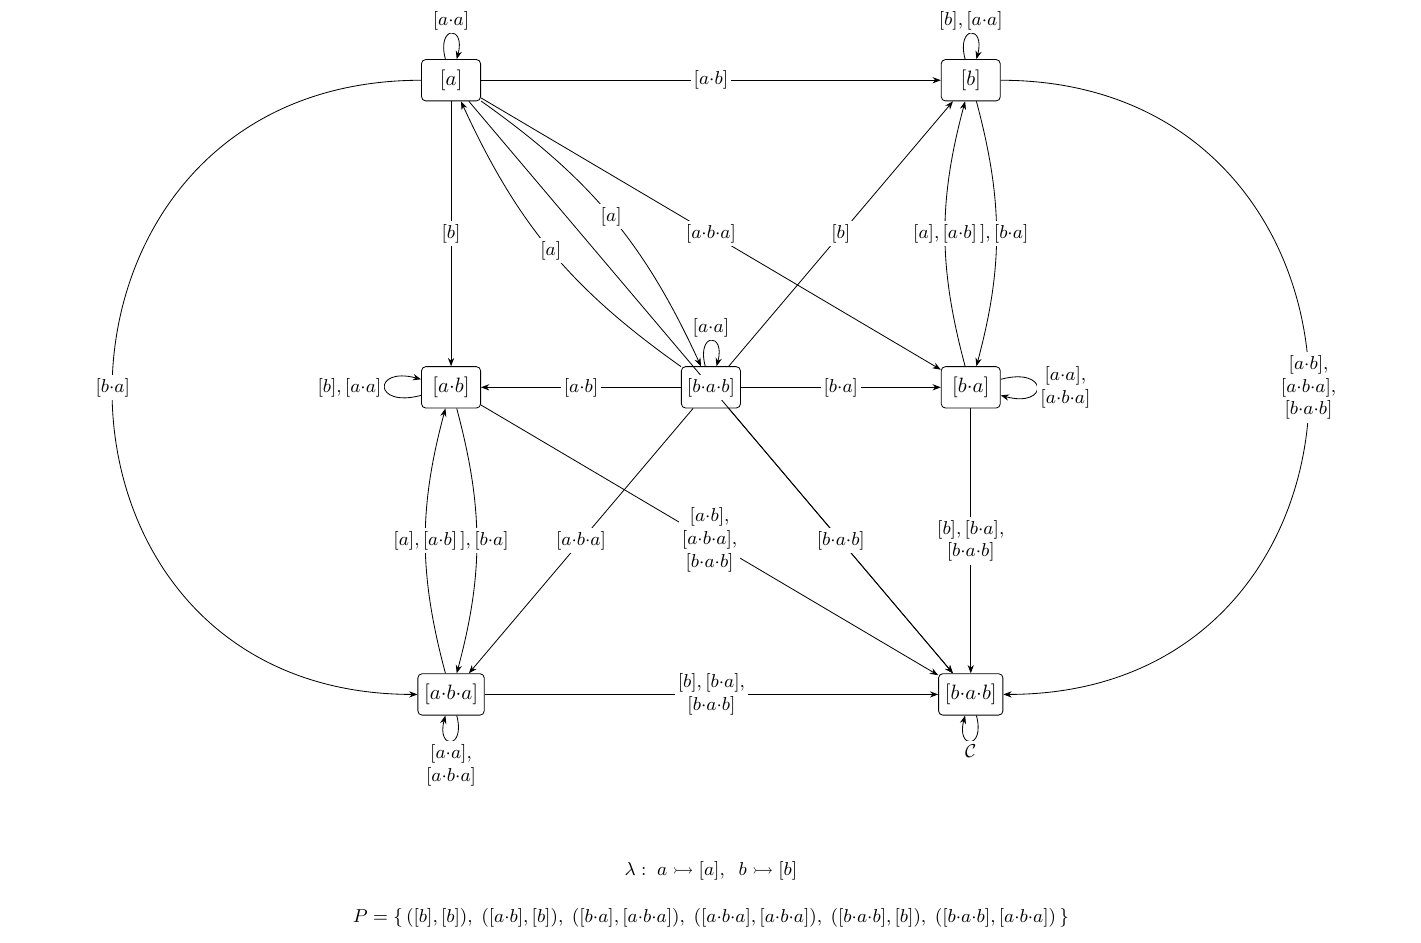
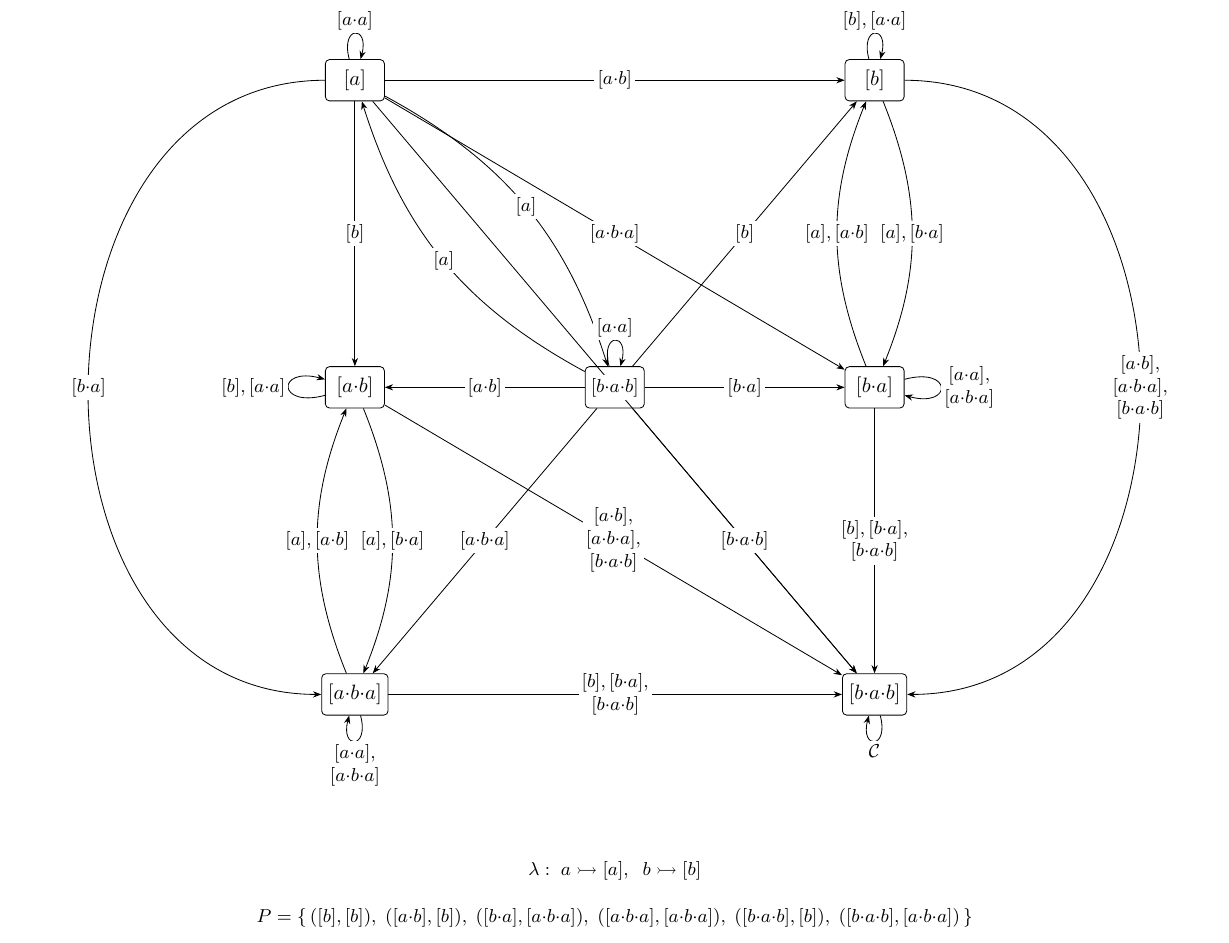
viz: anti-parallel pairs open wider (bend 15 -> 22), detours swing less far out (looseness 1.7/2.5 -> 1.3/1.8)
The two labels of an anti-parallel pair each sit at their arc's midpoint, so the
arcs have to part enough to keep the labels off each other. A detour, on the other
hand, only needs to clear the node it goes around and that node's self-loop:
swinging wider buys no clearance and only steepens the dive back in.

diff --git a/research_notes/sos_core_figs/sources/core_F3_evenblocks.tex b/research_notes/sos_core_figs/sources/core_F3_evenblocks.tex
@@ -24,30 +24,30 @@
   \node[class] (aba) at (0.0,-5.2) {$[a{\cdot}b{\cdot}a]$};
   \node[class] (bab) at (8.8,-5.2) {$[b{\cdot}a{\cdot}b]$};
 
-  \draw[arrow] (a) to[bend left=15] node[lbl] {$[a]$} (aa);
+  \draw[arrow] (a) to[bend left=22] node[lbl] {$[a]$} (aa);
   \draw[arrow] (a) to node[lbl] {$[b]$} (ab);
   \draw[arrow] (a) to[loop above] node[lbl] {$[a{\cdot}a]$} (a);
   \draw[arrow] (a) to node[lbl] {$[a{\cdot}b]$} (b);
-  \draw[arrow] (a) to[out=180,in=180,looseness=1.7] node[lbl] {$[b{\cdot}a]$} (aba);
+  \draw[arrow] (a) to[out=180,in=180,looseness=1.3] node[lbl] {$[b{\cdot}a]$} (aba);
   \draw[arrow] (a) to node[lbl] {$[a{\cdot}b{\cdot}a]$} (ba);
   \draw[arrow] (a) to node[lbl] {$[b{\cdot}a{\cdot}b]$} (bab);
-  \draw[arrow] (b) to[bend left=15] node[lbl] {$[a],[b{\cdot}a]$} (ba);
+  \draw[arrow] (b) to[bend left=22] node[lbl] {$[a],[b{\cdot}a]$} (ba);
   \draw[arrow] (b) to[loop above] node[lbl] {$[b],[a{\cdot}a]$} (b);
-  \draw[arrow] (b) to[out=0,in=0,looseness=1.7] node[lbl] {$[a{\cdot}b],$\\$[a{\cdot}b{\cdot}a],$\\$[b{\cdot}a{\cdot}b]$} (bab);
-  \draw[arrow] (aa) to[bend left=15] node[lbl] {$[a]$} (a);
+  \draw[arrow] (b) to[out=0,in=0,looseness=1.3] node[lbl] {$[a{\cdot}b],$\\$[a{\cdot}b{\cdot}a],$\\$[b{\cdot}a{\cdot}b]$} (bab);
+  \draw[arrow] (aa) to[bend left=22] node[lbl] {$[a]$} (a);
   \draw[arrow] (aa) to node[lbl] {$[b]$} (b);
   \draw[arrow] (aa) to[loop above] node[lbl] {$[a{\cdot}a]$} (aa);
   \draw[arrow] (aa) to node[lbl] {$[a{\cdot}b]$} (ab);
   \draw[arrow] (aa) to node[lbl] {$[b{\cdot}a]$} (ba);
   \draw[arrow] (aa) to node[lbl] {$[a{\cdot}b{\cdot}a]$} (aba);
   \draw[arrow] (aa) to node[lbl] {$[b{\cdot}a{\cdot}b]$} (bab);
-  \draw[arrow] (ab) to[bend left=15] node[lbl] {$[a],[b{\cdot}a]$} (aba);
+  \draw[arrow] (ab) to[bend left=22] node[lbl] {$[a],[b{\cdot}a]$} (aba);
   \draw[arrow] (ab) to[loop left] node[lbl] {$[b],[a{\cdot}a]$} (ab);
   \draw[arrow] (ab) to node[lbl] {$[a{\cdot}b],$\\$[a{\cdot}b{\cdot}a],$\\$[b{\cdot}a{\cdot}b]$} (bab);
-  \draw[arrow] (ba) to[bend left=15] node[lbl] {$[a],[a{\cdot}b]$} (b);
+  \draw[arrow] (ba) to[bend left=22] node[lbl] {$[a],[a{\cdot}b]$} (b);
   \draw[arrow] (ba) to node[lbl] {$[b],[b{\cdot}a],$\\$[b{\cdot}a{\cdot}b]$} (bab);
   \draw[arrow] (ba) to[loop right] node[lbl] {$[a{\cdot}a],$\\$[a{\cdot}b{\cdot}a]$} (ba);
-  \draw[arrow] (aba) to[bend left=15] node[lbl] {$[a],[a{\cdot}b]$} (ab);
+  \draw[arrow] (aba) to[bend left=22] node[lbl] {$[a],[a{\cdot}b]$} (ab);
   \draw[arrow] (aba) to node[lbl] {$[b],[b{\cdot}a],$\\$[b{\cdot}a{\cdot}b]$} (bab);
   \draw[arrow] (aba) to[loop below] node[lbl] {$[a{\cdot}a],$\\$[a{\cdot}b{\cdot}a]$} (aba);
   \draw[arrow] (bab) to[loop below] node[lbl] {$\mathcal{C}$} (bab);

diff --git a/sosl/sosl/sos/viz/tikz.py b/sosl/sosl/sos/viz/tikz.py
@@ -34,17 +34,20 @@ LOOP_DIRS: Tuple[Tuple[str, Tuple[float, float]], ...] = (
     ("loop right", (1.0, 0.0)), ("loop left", (-1.0, 0.0)))
 # A neighbour nearer than this (cm), in a direction's cone, crowds it out.
 CROWD_CM = 2.6
-# How far an anti-parallel pair of arrows bends apart (both bend left).
-BEND_ANGLE = 15
+# How far an anti-parallel pair of arrows bends apart (both bend left). Wide enough
+# that the two labels, each sitting at its arc's midpoint, clear each other.
+BEND_ANGLE = 22
 # The label of an arrow that carries every column: all the (non-identity) classes.
 ALL_CLASSES = r"\mathcal{C}"
 # Two nodes count as sharing a row / a column when their y / x differ by less than
 # this (cm) — coordinates are hand-rounded, so exact equality is too strict.
 ALIGN_CM = 0.3
-# How far out a detour swings: the `looseness` of its bezier. An anti-parallel pair
-# of detours takes the two values, so the arcs do not lie on top of each other.
-LOOSENESS = 1.7
-LOOSENESS_FAR = 2.5
+# How far out a detour swings: the `looseness` of its bezier. Enough to clear the
+# node it goes around and that node's own self-loop, not more — a wider arc buys no
+# clearance and only steepens the dive back in. An anti-parallel pair of detours
+# takes the two values, so the arcs do not lie on top of each other.
+LOOSENESS = 1.3
+LOOSENESS_FAR = 1.8
 # How far under the lowest node the P caption sits (cm).
 PAIRS_DROP_CM = 1.3
 # Extra drop when a bottom node's self-loop hangs below it: the loop and its label

diff --git a/research_notes/sos_core_figs/sources/core_F3_evenblocks_gen.tex b/research_notes/sos_core_figs/sources/core_F3_evenblocks_gen.tex
@@ -24,30 +24,30 @@
   \node[class] (aba) at (5.1,0.6) {$[a{\cdot}b{\cdot}a]$};
   \node[class] (bab) at (17.1,0.6) {$[b{\cdot}a{\cdot}b]$};
 
-  \draw[arrow] (a) to[bend left=15] node[lbl] {$[a]$} (aa);
+  \draw[arrow] (a) to[bend left=22] node[lbl] {$[a]$} (aa);
   \draw[arrow] (a) to node[lbl] {$[b]$} (ab);
   \draw[arrow] (a) to[loop above] node[lbl] {$[a{\cdot}a]$} (a);
   \draw[arrow] (a) to node[lbl] {$[a{\cdot}b]$} (b);
   \draw[arrow] (a) to node[lbl] {$[b{\cdot}a]$} (aba);
   \draw[arrow] (a) to node[lbl] {$[a{\cdot}b{\cdot}a]$} (ba);
   \draw[arrow] (a) to node[lbl] {$[b{\cdot}a{\cdot}b]$} (bab);
-  \draw[arrow] (b) to[bend left=15] node[lbl] {$[a],[b{\cdot}a]$} (ba);
+  \draw[arrow] (b) to[bend left=22] node[lbl] {$[a],[b{\cdot}a]$} (ba);
   \draw[arrow] (b) to[loop above] node[lbl] {$[b],[a{\cdot}a]$} (b);
   \draw[arrow] (b) to node[lbl] {$[a{\cdot}b],$\\$[a{\cdot}b{\cdot}a],$\\$[b{\cdot}a{\cdot}b]$} (bab);
-  \draw[arrow] (aa) to[bend left=15] node[lbl] {$[a]$} (a);
+  \draw[arrow] (aa) to[bend left=22] node[lbl] {$[a]$} (a);
   \draw[arrow] (aa) to node[lbl] {$[b]$} (b);
   \draw[arrow] (aa) to[loop above] node[lbl] {$[a{\cdot}a]$} (aa);
   \draw[arrow] (aa) to node[lbl] {$[a{\cdot}b]$} (ab);
-  \draw[arrow] (aa) to[out=90,in=90,looseness=1.7] node[lbl] {$[b{\cdot}a]$} (ba);
+  \draw[arrow] (aa) to[out=90,in=90,looseness=1.3] node[lbl] {$[b{\cdot}a]$} (ba);
   \draw[arrow] (aa) to node[lbl] {$[a{\cdot}b{\cdot}a]$} (aba);
   \draw[arrow] (aa) to node[lbl] {$[b{\cdot}a{\cdot}b]$} (bab);
-  \draw[arrow] (ab) to[bend left=15] node[lbl] {$[a],[b{\cdot}a]$} (aba);
+  \draw[arrow] (ab) to[bend left=22] node[lbl] {$[a],[b{\cdot}a]$} (aba);
   \draw[arrow] (ab) to[loop above] node[lbl] {$[b],[a{\cdot}a]$} (ab);
   \draw[arrow] (ab) to node[lbl] {$[a{\cdot}b],$\\$[a{\cdot}b{\cdot}a],$\\$[b{\cdot}a{\cdot}b]$} (bab);
-  \draw[arrow] (ba) to[bend left=15] node[lbl] {$[a],[a{\cdot}b]$} (b);
+  \draw[arrow] (ba) to[bend left=22] node[lbl] {$[a],[a{\cdot}b]$} (b);
   \draw[arrow] (ba) to node[lbl] {$[b],[b{\cdot}a],$\\$[b{\cdot}a{\cdot}b]$} (bab);
   \draw[arrow] (ba) to[loop above] node[lbl] {$[a{\cdot}a],$\\$[a{\cdot}b{\cdot}a]$} (ba);
-  \draw[arrow] (aba) to[bend left=15] node[lbl] {$[a],[a{\cdot}b]$} (ab);
+  \draw[arrow] (aba) to[bend left=22] node[lbl] {$[a],[a{\cdot}b]$} (ab);
   \draw[arrow] (aba) to node[lbl] {$[b],[b{\cdot}a],$\\$[b{\cdot}a{\cdot}b]$} (bab);
   \draw[arrow] (aba) to[loop above] node[lbl] {$[a{\cdot}a],$\\$[a{\cdot}b{\cdot}a]$} (aba);
   \draw[arrow] (bab) to[loop above] node[lbl] {$\mathcal{C}$} (bab);

diff --git a/research_notes/sos_core_figs/sources/core_F1_gf_aa_gen.tex b/research_notes/sos_core_figs/sources/core_F1_gf_aa_gen.tex
@@ -23,17 +23,17 @@
   \node[class] (ba) at (1.0,0.6) {$[b{\cdot}a]$};
 
   \draw[arrow] (a) to node[lbl] {$[a],[a{\cdot}a],$\\$[a{\cdot}b]$} (aa);
-  \draw[arrow] (a) to[bend left=15] node[lbl] {$[b]$} (ab);
+  \draw[arrow] (a) to[bend left=22] node[lbl] {$[b]$} (ab);
   \draw[arrow] (a) to[loop above] node[lbl] {$[b{\cdot}a]$} (a);
-  \draw[arrow] (b) to[bend left=15] node[lbl] {$[a],[b{\cdot}a]$} (ba);
+  \draw[arrow] (b) to[bend left=22] node[lbl] {$[a],[b{\cdot}a]$} (ba);
   \draw[arrow] (b) to[loop above] node[lbl] {$[b],[a{\cdot}b]$} (b);
   \draw[arrow] (b) to node[lbl] {$[a{\cdot}a]$} (aa);
   \draw[arrow] (aa) to[loop above] node[lbl] {$\mathcal{C}$} (aa);
-  \draw[arrow] (ab) to[bend left=15] node[lbl] {$[a],[b{\cdot}a]$} (a);
+  \draw[arrow] (ab) to[bend left=22] node[lbl] {$[a],[b{\cdot}a]$} (a);
   \draw[arrow] (ab) to[loop above] node[lbl] {$[b],[a{\cdot}b]$} (ab);
   \draw[arrow] (ab) to node[lbl] {$[a{\cdot}a]$} (aa);
-  \draw[arrow] (ba) to[out=-90,in=-90,looseness=1.7] node[lbl] {$[a],[a{\cdot}a],$\\$[a{\cdot}b]$} (aa);
-  \draw[arrow] (ba) to[bend left=15] node[lbl] {$[b]$} (b);
+  \draw[arrow] (ba) to[out=-90,in=-90,looseness=1.3] node[lbl] {$[a],[a{\cdot}a],$\\$[a{\cdot}b]$} (aa);
+  \draw[arrow] (ba) to[bend left=22] node[lbl] {$[b]$} (b);
   \draw[arrow] (ba) to[loop above] node[lbl] {$[b{\cdot}a]$} (ba);
 
   \node[pairs] at (7.3,-0.7) {$\lambda:\; a \rightarrowtail [a],\;\; b \rightarrowtail [b]$};

diff --git a/research_notes/sos_core_figs/sources/core_F1_gf_aa.tex b/research_notes/sos_core_figs/sources/core_F1_gf_aa.tex
@@ -23,17 +23,17 @@
   \node[class] (ba) at (6.8,-2.4) {$[b{\cdot}a]$};
 
   \draw[arrow] (a) to node[lbl] {$[a],[a{\cdot}a],$\\$[a{\cdot}b]$} (aa);
-  \draw[arrow] (a) to[bend left=15] node[lbl] {$[b]$} (ab);
+  \draw[arrow] (a) to[bend left=22] node[lbl] {$[b]$} (ab);
   \draw[arrow] (a) to[loop left] node[lbl] {$[b{\cdot}a]$} (a);
-  \draw[arrow] (b) to[bend left=15] node[lbl] {$[a],[b{\cdot}a]$} (ba);
+  \draw[arrow] (b) to[bend left=22] node[lbl] {$[a],[b{\cdot}a]$} (ba);
   \draw[arrow] (b) to[loop right] node[lbl] {$[b],[a{\cdot}b]$} (b);
   \draw[arrow] (b) to node[lbl] {$[a{\cdot}a]$} (aa);
   \draw[arrow] (aa) to[loop left] node[lbl] {$\mathcal{C}$} (aa);
-  \draw[arrow] (ab) to[bend left=15] node[lbl] {$[a],[b{\cdot}a]$} (a);
+  \draw[arrow] (ab) to[bend left=22] node[lbl] {$[a],[b{\cdot}a]$} (a);
   \draw[arrow] (ab) to[loop right] node[lbl] {$[b],[a{\cdot}b]$} (ab);
   \draw[arrow] (ab) to node[lbl] {$[a{\cdot}a]$} (aa);
   \draw[arrow] (ba) to node[lbl] {$[a],[a{\cdot}a],$\\$[a{\cdot}b]$} (aa);
-  \draw[arrow] (ba) to[bend left=15] node[lbl] {$[b]$} (b);
+  \draw[arrow] (ba) to[bend left=22] node[lbl] {$[b]$} (b);
   \draw[arrow] (ba) to[loop right] node[lbl] {$[b{\cdot}a]$} (ba);
 
   \node[pairs] at (3.4,-3.7) {$\lambda:\; a \rightarrowtail [a],\;\; b \rightarrowtail [b]$};

diff --git a/research_notes/sos_core_figs/sources/core_F2_even.tex b/research_notes/sos_core_figs/sources/core_F2_even.tex
@@ -21,12 +21,12 @@
   \node[class] (aa) at (4.4,-1.7) {$[a{\cdot}a]$};
   \node[class] (ab) at (0.0,-1.7) {$[a{\cdot}b]$};
 
-  \draw[arrow] (a) to[bend left=15] node[lbl] {$[a]$} (aa);
+  \draw[arrow] (a) to[bend left=22] node[lbl] {$[a]$} (aa);
   \draw[arrow] (a) to node[lbl] {$[b]$} (ab);
   \draw[arrow] (a) to[loop left] node[lbl] {$[a{\cdot}a]$} (a);
   \draw[arrow] (a) to node[lbl] {$[a{\cdot}b]$} (b);
   \draw[arrow] (b) to[loop right] node[lbl] {$\mathcal{C}$} (b);
-  \draw[arrow] (aa) to[bend left=15] node[lbl] {$[a]$} (a);
+  \draw[arrow] (aa) to[bend left=22] node[lbl] {$[a]$} (a);
   \draw[arrow] (aa) to node[lbl] {$[b]$} (b);
   \draw[arrow] (aa) to[loop right] node[lbl] {$[a{\cdot}a]$} (aa);
   \draw[arrow] (aa) to node[lbl] {$[a{\cdot}b]$} (ab);

diff --git a/research_notes/sos_core_figs/sources/core_F2_even_gen.tex b/research_notes/sos_core_figs/sources/core_F2_even_gen.tex
@@ -21,12 +21,12 @@
   \node[class] (aa) at (1.0,0.6) {$[a{\cdot}a]$};
   \node[class] (ab) at (7.1,0.6) {$[a{\cdot}b]$};
 
-  \draw[arrow] (a) to[bend left=15] node[lbl] {$[a]$} (aa);
+  \draw[arrow] (a) to[bend left=22] node[lbl] {$[a]$} (aa);
   \draw[arrow] (a) to node[lbl] {$[b]$} (ab);
   \draw[arrow] (a) to[loop above] node[lbl] {$[a{\cdot}a]$} (a);
   \draw[arrow] (a) to node[lbl] {$[a{\cdot}b]$} (b);
   \draw[arrow] (b) to[loop above] node[lbl] {$\mathcal{C}$} (b);
-  \draw[arrow] (aa) to[bend left=15] node[lbl] {$[a]$} (a);
+  \draw[arrow] (aa) to[bend left=22] node[lbl] {$[a]$} (a);
   \draw[arrow] (aa) to node[lbl] {$[b]$} (b);
   \draw[arrow] (aa) to[loop above] node[lbl] {$[a{\cdot}a]$} (aa);
   \draw[arrow] (aa) to node[lbl] {$[a{\cdot}b]$} (ab);